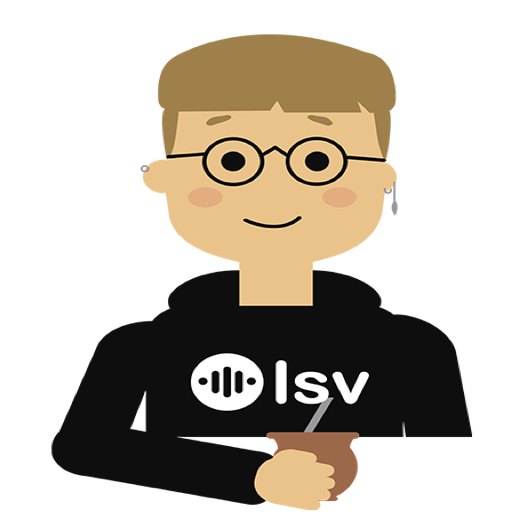
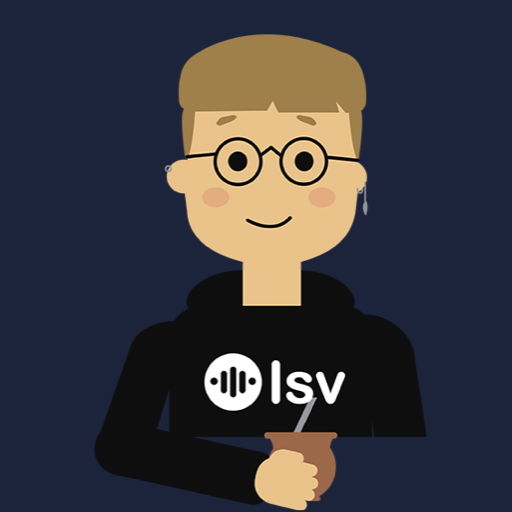
nuevo estilo y fotos

diff --git a/src/App.js b/src/App.js
@@ -15,7 +15,8 @@ import rta from "./rta.png";
 import setlist from "./setlist.png";
 import cuelist from "./cuelist.png";
 import podcast from "./podcastleonsonidovirtual.png";
-import portrait from "./fotoleon-optimized.jpg";
+import heroPortrait from "./fotoleon-3-optimized.jpg";
+import bioPortrait from "./fotoleon-nueva-optimized.jpg";
 import { useState } from "react";
 
 const courses = [
@@ -275,7 +276,7 @@ function BioSection() {
       <div className="bio">
         <img
           className="bio__photo"
-          src={portrait}
+          src={bioPortrait}
           alt="Leon Sonido Virtual"
           loading="lazy"
           decoding="async"
@@ -311,7 +312,7 @@ export default function App() {
         <section className="hero-panel" aria-label="Presentacion principal">
           <img
             className="hero-panel__portrait"
-            src={portrait}
+            src={heroPortrait}
             alt="Leon Sonido Virtual"
             loading="lazy"
             decoding="async"
@@ -321,8 +322,10 @@ export default function App() {
             <img className="hero-panel__logo" src={logo} alt="Leon Sonido Virtual" />
             <h1>Cursos de Audio en Vivo</h1>
             <p>
-              RF, mezcla en vivo, optimizacion de sistemas, Yamaha CL5, Dante y
-              herramientas para sonidistas.
+              Lleva tu carrera al siguiente nivel con mi escuela de formacion
+              profesional en audio en vivo: cursos paso a paso, entrenamiento
+              real para shows y apps que te ayudan a optimizar
+              sistemas y trabajar mas rapido como sonidista en general.
             </p>
             <ul className="topic-list" aria-label="Temas principales">
               {focusTopics.map((topic) => (

diff --git a/public/index.html b/public/index.html
@@ -6,7 +6,7 @@
     <meta name="theme-color" content="#0c0c0c" />
     <meta
       name="description"
-      content="Cursos de audio en vivo, RF, mezcla, optimizacion de sistemas, Yamaha CL5, Dante y herramientas para sonidistas. Leon Sonido Virtual."
+      content="Escuela profesional de audio en vivo con cursos de RF, mezcla, optimizacion de sistemas, Yamaha CL5 y Dante, mas apps exclusivas para sonidistas."
     />
     <meta
       name="keywords"
@@ -22,7 +22,7 @@
     <meta property="og:title" content="Cursos de Audio en Vivo | Leon Sonido Virtual" />
     <meta
       property="og:description"
-      content="Aprende audio en vivo con cursos de RF, mezcla, optimizacion de sistemas, Yamaha CL5 y Dante."
+      content="Formate como sonidista profesional con cursos de audio en vivo y apps exclusivas para trabajar mejor en shows reales."
     />
     <meta property="og:image" content="%PUBLIC_URL%/og-image.png" />
 
@@ -30,7 +30,7 @@
     <meta name="twitter:title" content="Cursos de Audio en Vivo | Leon Sonido Virtual" />
     <meta
       name="twitter:description"
-      content="Formacion online y recursos para sonidistas: RF, mezcla en vivo, sistemas, Yamaha CL5 y Dante."
+      content="Escuela de audio en vivo + apps para sonidistas: aprende RF, mezcla, sistemas, Yamaha CL5 y Dante con enfoque profesional."
     />
     <meta name="twitter:image" content="%PUBLIC_URL%/og-image.png" />
 
